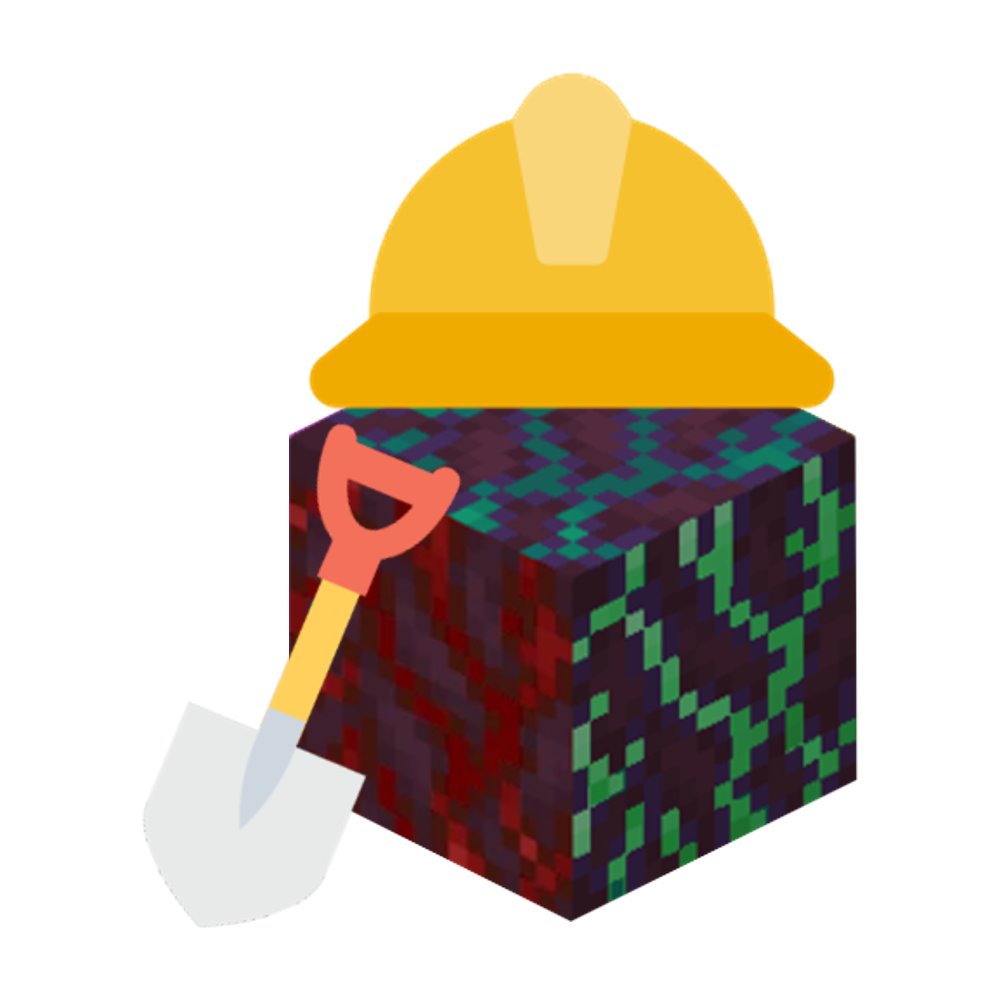
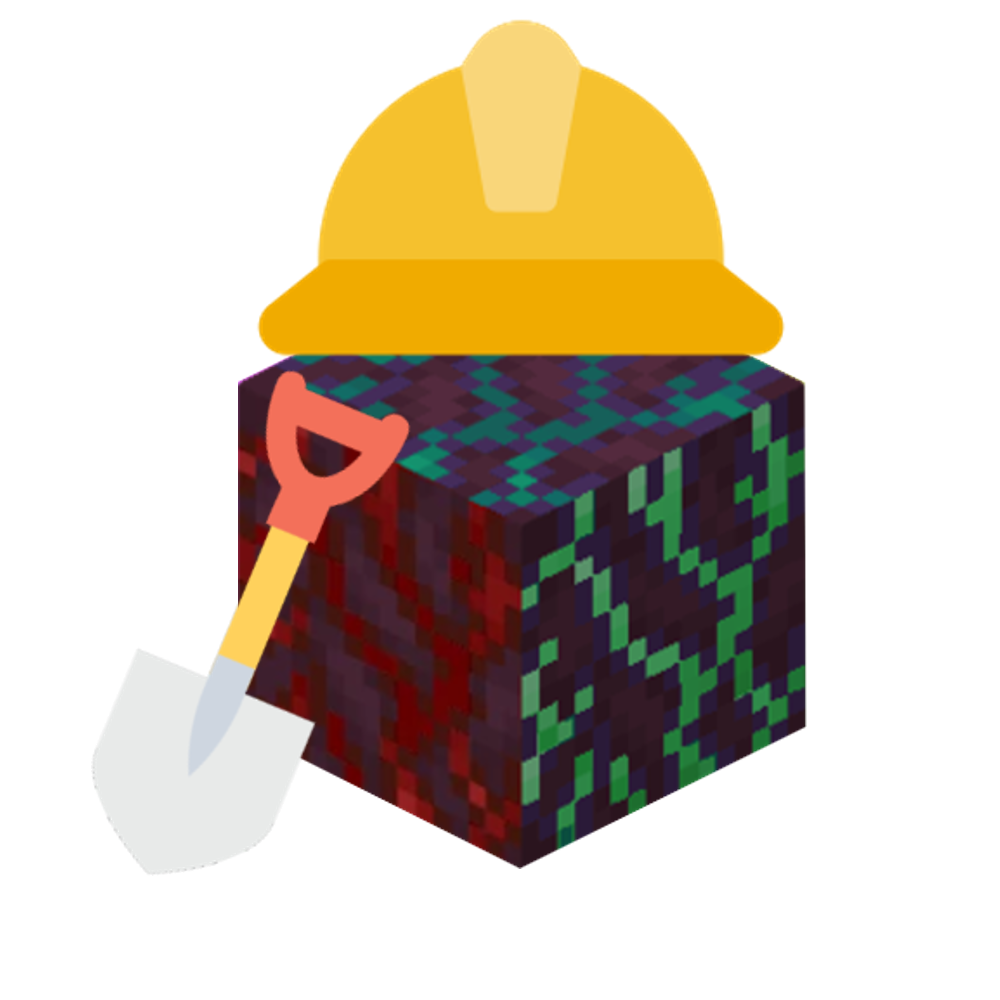
fix wip

diff --git a/wip.html b/wip.html
@@ -4,7 +4,7 @@
 <head>
     <link rel="stylesheet" href="css/site.css">
     <title>
-        Prismplex
+        Work In Progress
     </title>
 </head>
 
@@ -15,22 +15,17 @@
     <script>
         w3IncludeHTML();
     </script>
-    <div class="container" style="background-image:url('../townhallinprogress.png');">
-        <div class="card"
-            style="border-radius: 8px; backdrop-filter: blur(5px); background-color: #ffffff80; width: 50%; height: 0; padding-top: 50%; margin: auto; top: 100%; transform: translateY(20%); position: relative; text-align: center;">
-            <div style="position: absolute; top: 0; left: 0; width: 100%; height: 100%;">
-                <img src="constructionprism.png" alt="A prismplex logo with a hard hat and shovel"
-                    style="width: 100%; height: 100%; object-fit: cover;" />
-            </div>
-            <h1 style="position: absolute; top: 50%; left: 50%; transform: translate(-50%, -50%);">Work In Progress</h1>
-        </div>
-        <div class="card" style="height:60%;">
-            <br>
-            <p><b>This page is a work in progress or is currently down, please join our discord server: </b></p> <br>
-            <br>
-            <p><a href="https://discord.gg/gxfv23YbjM"> https://discord.gg/gxfv23YbjM </a> </p>
-        </div>
+   <div class="container" style="background-image:url('../townhallinprogress.png');">
+    <div class="card" style="border-radius: 8px; backdrop-filter: blur(5px); background-color: #ffffff80; width: 50%; height: 20%; margin: auto; top: 100%; transform: translateY(20%);">
+        <img src="constructionprism.png" alt="A prismplex logo with a hard hat and shovel" style="width: 50%; height: auto; max-width: 100%; max-height: 100%;" />
+        <h1> Work In Progress</h1>
+    </div>    
+    <div class="card" style="height:60%;">
+        <br>
+        <p><b>This page is a work in progress or is currently down, please join our discord server: </b></p> <br> <br>
+        <p><a href="https://discord.gg/gxfv23YbjM"> https://discord.gg/gxfv23YbjM </a> </p>
     </div>
+</div>
     <div w3-include-html="footer.html"></div>
     <script>
         w3IncludeHTML();
